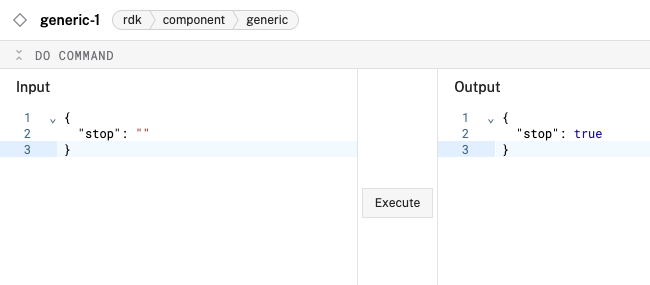
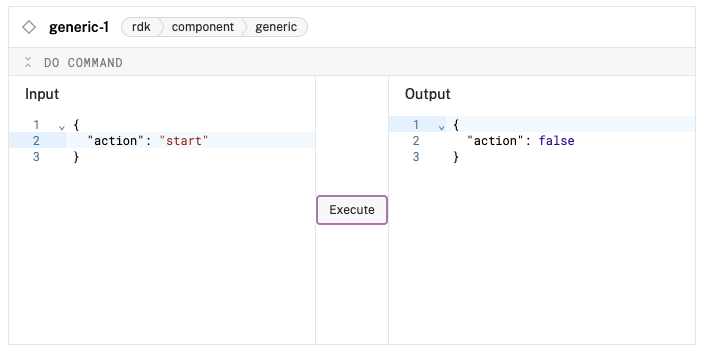
DOCS-3934: Update control logic page (#4267)

diff --git a/docs/manage/software/control-logic.md b/docs/manage/software/control-logic.md
@@ -117,7 +117,7 @@ class ControlLogic(Generic, EasyResource):
 
         except Exception as err:
             LOGGER.error(err)
-        await asyncio.sleep(1)
+        await asyncio.sleep(10)
 
     def __del__(self):
         self.stop()
@@ -133,11 +133,11 @@ class ControlLogic(Generic, EasyResource):
         **kwargs
     ) -> Mapping[str, ValueTypes]:
         result = {key: False for key in command.keys()}
-        for name, _args in command.items():
-            if name == "start":
+        for name, args in command.items():
+            if name == "action" and args == "start":
                 self.start()
                 result[name] = True
-            if name == "stop":
+            if name == "action" and args == "stop":
                 self.stop()
                 result[name] = True
         return result
@@ -184,10 +184,10 @@ For example, in Python, you can start and stop your control logic with the follo
 
 ```python
 # Start your control logic
-await control_logic.do_command({"start": ""})
+await control_logic.do_command({"action": "start"})
 
 # Stop your control logic
-await control_logic.do_command({"stop": ""})
+await control_logic.do_command({"action": "stop"})
 ```
 
 ## Start and stop your control logic with the Viam app
@@ -200,7 +200,7 @@ You can start and stop your control logic from your machine's **CONTROL** tab in
 
    ```json {class="line-numbers linkable-line-numbers"}
    {
-     "start": ""
+     "action": "start"
    }
    ```
 
@@ -208,7 +208,7 @@ You can start and stop your control logic from your machine's **CONTROL** tab in
 
    ```json {class="line-numbers linkable-line-numbers"}
    {
-     "stop": ""
+     "action": "stop"
    }
    ```
 
